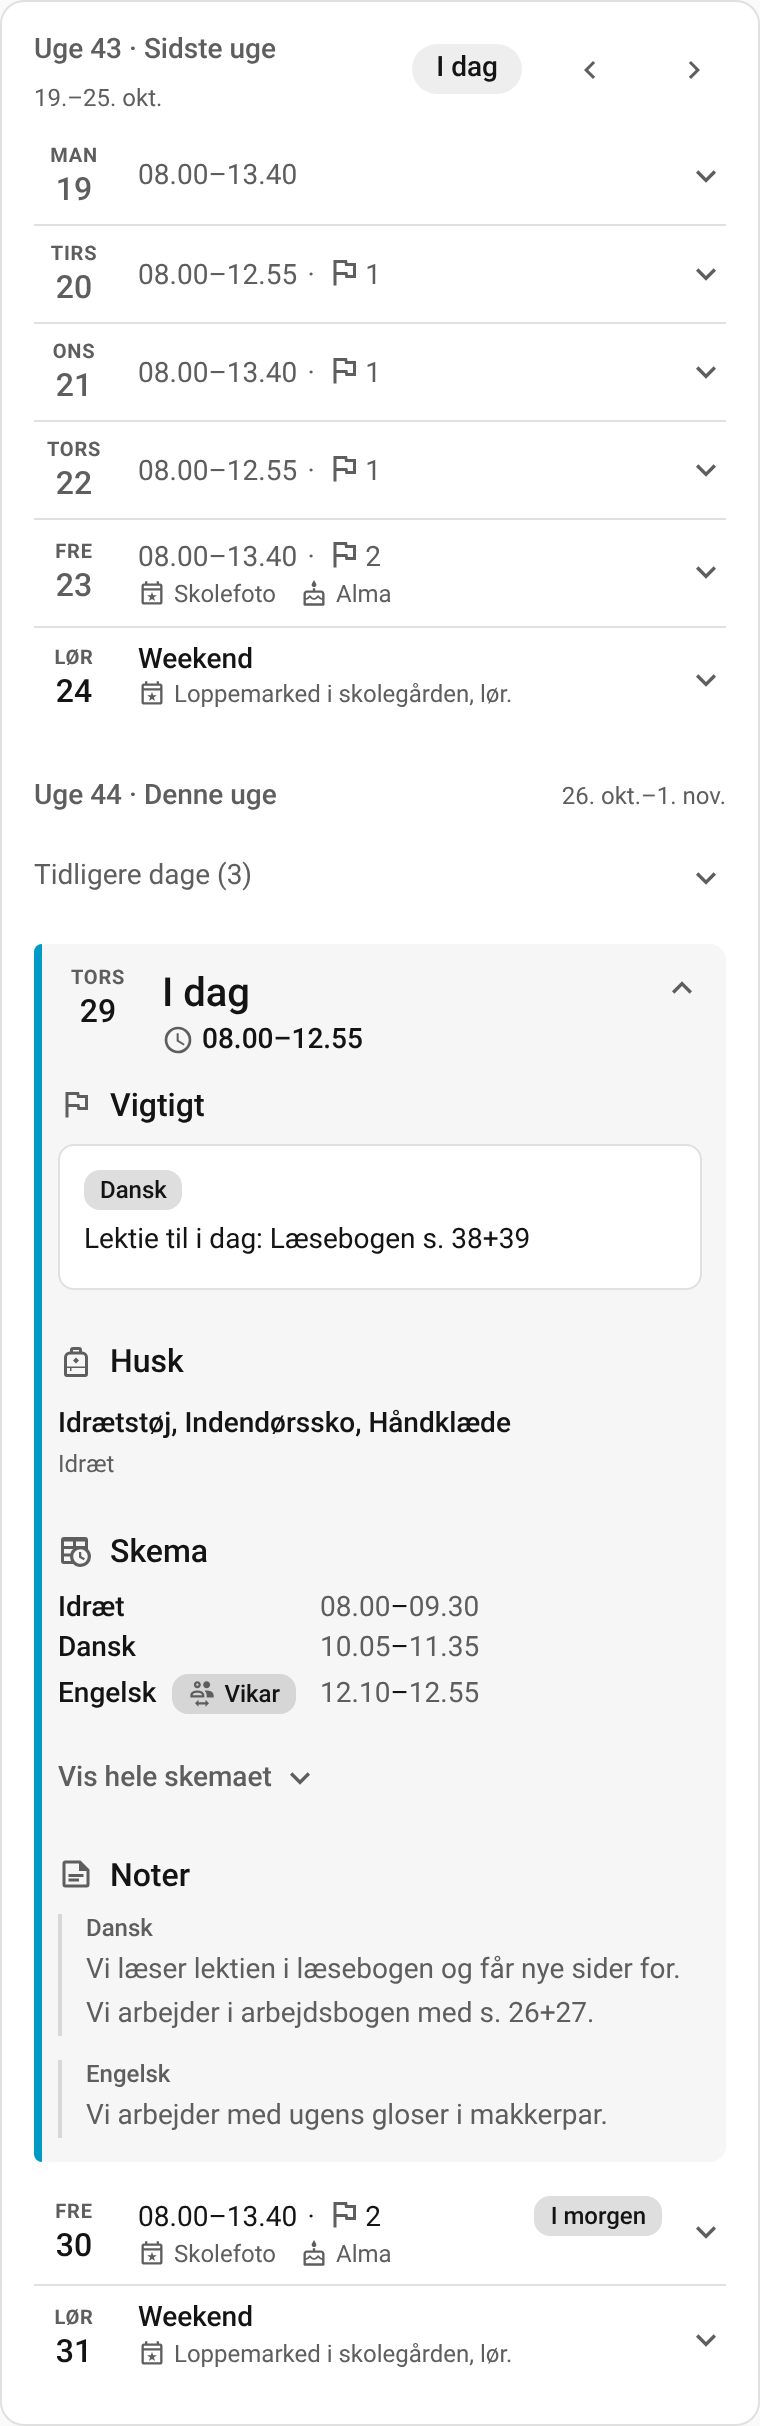
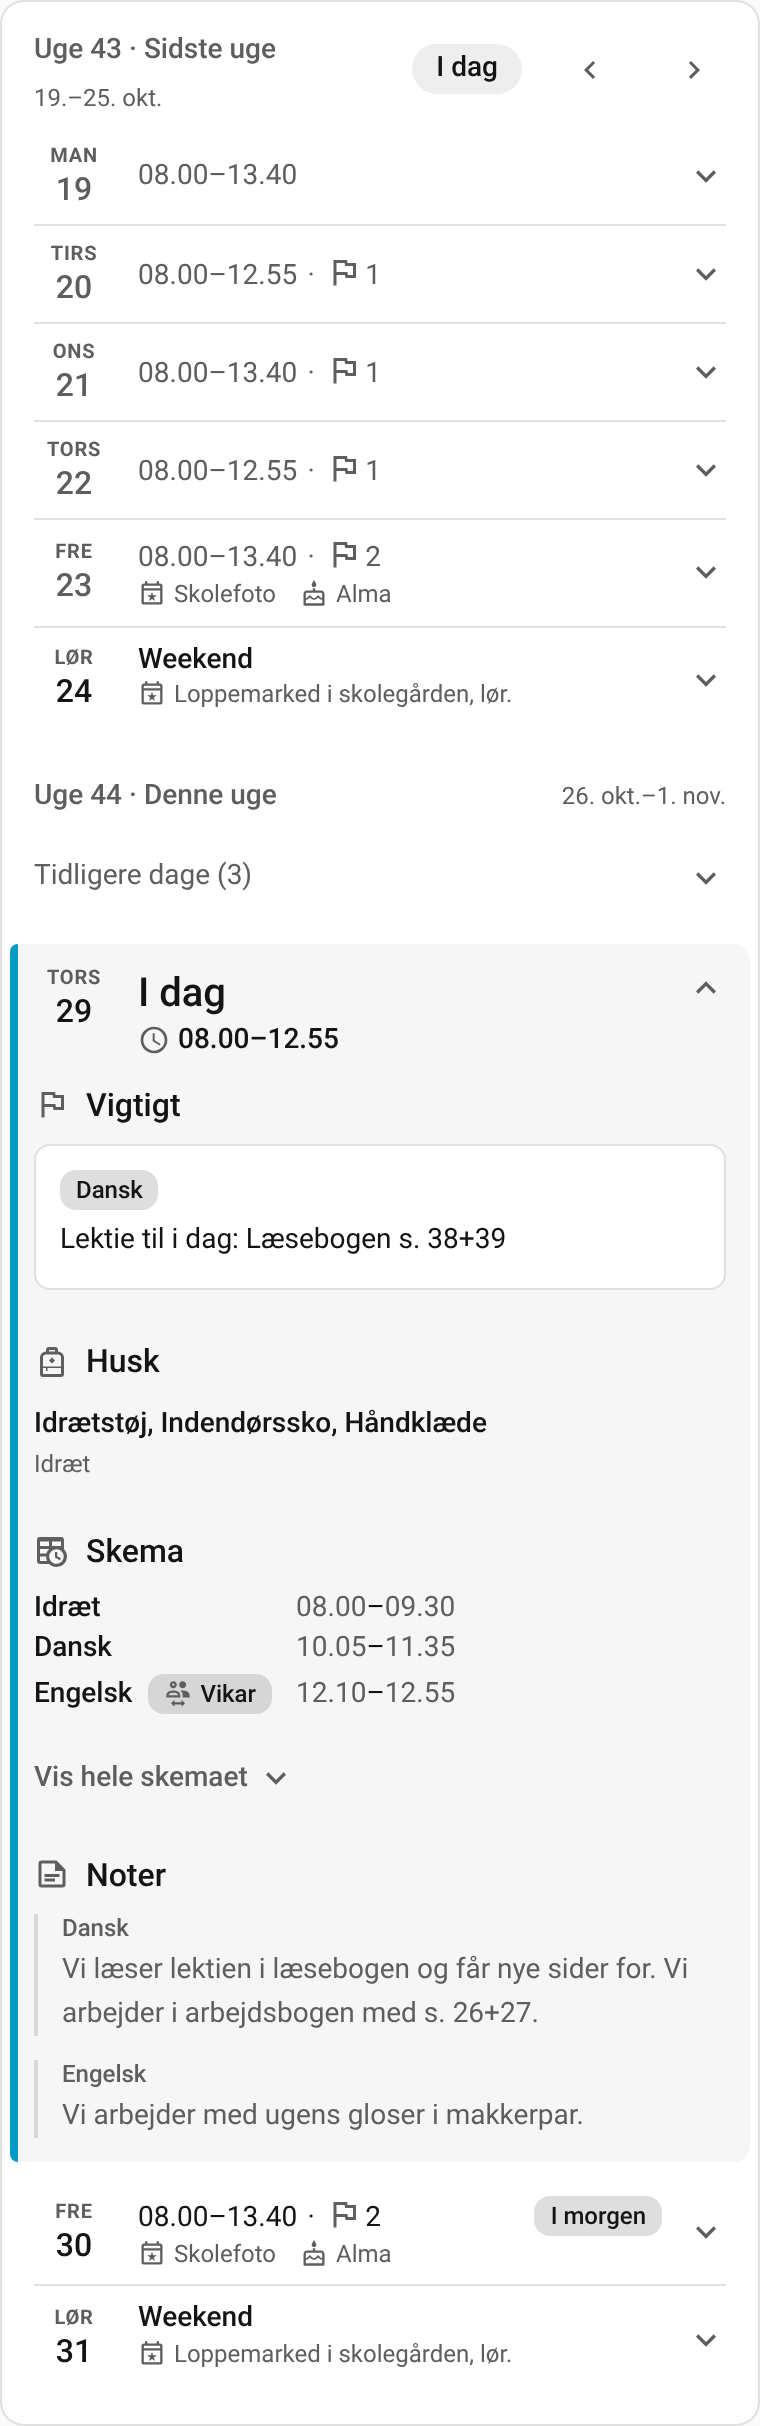
Keep the week card's dates in one column when a day is opened (#19)
Claude-Session: https://claude.ai/code/session_01SqQDNZBDdSDZgAEZdkAgqw

diff --git a/src/ui/styles.ts b/src/ui/styles.ts
@@ -1189,8 +1189,17 @@ export const weekStyles = css`
     padding: var(--aula-space-2) var(--aula-space-3);
     box-sizing: border-box;
   }
+  /* A row's fill, and an open day's frame, reach into the card's padding by as much. */
+  .week {
+    --aula-bleed: var(--aula-space-3);
+  }
+  @container aula (max-width: 359px) {
+    .week {
+      --aula-bleed: var(--aula-space-2);
+    }
+  }
   .day-row:not(.focus-day) > summary {
-    margin-inline: calc(-1 * var(--aula-space-3));
+    margin-inline: calc(-1 * var(--aula-bleed));
   }
   .daycol {
     flex: none;
@@ -1253,16 +1262,22 @@ export const weekStyles = css`
   .past .number {
     color: var(--aula-text-2);
   }
-  /* Today's bar is on the content's edge, the row closed or open. */
+  /* Today's bar is on the edge a row's fill and an open day's frame share, closed or open. */
   .today-row,
   .focus-day.today {
     position: relative;
+  }
+  .focus-day.today::before {
+    inset-inline-start: 0;
+  }
+  .today-row::before {
+    inset-inline-start: calc(-1 * var(--aula-bleed));
   }
   .today-row::before,
   .focus-day.today::before {
     content: "";
     position: absolute;
-    inset: 0 auto 0 0;
+    inset-block: 0;
     width: calc(4px * var(--aula-scale));
     border-radius: var(--aula-radius) 0 0 var(--aula-radius);
     background: var(--aula-accent);
@@ -1272,13 +1287,17 @@ export const weekStyles = css`
     align-items: center;
     gap: var(--aula-space-3);
     min-height: var(--aula-target);
-    padding: var(--aula-space-2) 0;
+    /* No fill to reach out, so its date steps in to the others'. */
+    padding: var(--aula-space-2) calc(var(--aula-space-3) - var(--aula-bleed));
   }
-  /* An open day is framed, the focus day and any other the user opens alike. */
+  /*
+   * An open day is framed, the focus day and any other the user opens alike. The frame reaches
+   * out as far as a closed row's fill, so that its date stays in the column of the others.
+   */
   .focus-day,
   .day-row[open] {
     container: day / inline-size;
-    margin: var(--aula-space-2) 0;
+    margin: var(--aula-space-2) calc(-1 * var(--aula-bleed));
     border-radius: var(--aula-radius);
     background: var(--aula-fill-faint);
   }

diff --git a/tests/ui/styles.test.ts b/tests/ui/styles.test.ts
@@ -72,6 +72,19 @@ describe("the wall screen", () => {
   });
 });
 
+describe("the week card's rows", () => {
+  it("keep a day's date in one column, closed or open, as the frame reaches out as far as a row's fill", () => {
+    const bleed = "calc(-1 * var(--aula-bleed))";
+    expect(declared(weekStyles, ".day-row:not(.focus-day) > summary")).toContain(
+      `margin-inline: ${bleed}`,
+    );
+    expect(declared(weekStyles, ".day-row[open]")).toContain(
+      `margin: var(--aula-space-2) ${bleed}`,
+    );
+    expect(declared(weekStyles, ".focus-day")).toContain(`margin: var(--aula-space-2) ${bleed}`);
+  });
+});
+
 describe("what is never cut", () => {
   it("clamps no quote of the week plan, only the plan's notes behind Vis mere", () => {
     const clamped = ALL.flatMap(rules)
@@ -159,8 +172,12 @@ describe("the week card's days", () => {
     expect(declared(weekStyles, ".day-row[open] > summary")).toContain("margin-inline: 0");
   });
 
-  it("puts today's bar on the content's edge, the row closed or open", () => {
-    expect(declared(weekStyles, ".today-row::before")).toContain("inset: 0 auto 0 0");
-    expect(declared(weekStyles, ".holiday-row")).toContain("padding: var(--aula-space-2) 0");
+  it("puts today's bar on the edge a row's fill and an open day's frame share, closed or open", () => {
+    expect(declared(weekStyles, ".today-row::before")).toContain(
+      "inset-inline-start: calc(-1 * var(--aula-bleed))",
+    );
+    expect(declared(weekStyles, ".holiday-row")).toContain(
+      "padding: var(--aula-space-2) calc(var(--aula-space-3) - var(--aula-bleed))",
+    );
   });
 });

diff --git a/scripts/screenshot.ts b/scripts/screenshot.ts
@@ -253,6 +253,7 @@ const SETS: Record<string, () => Shot[]> = {
     shot("week", "sat-1000-birthday", 380, { click: ".weekend-row > summary", tag: "open" }),
     shot("week", "sat-1000-birthday", 380, { locale: "en-US" }),
     shot("week", "thu-1930", 380, { click: ".day-row:not(.focus-day) > summary", tag: "open" }),
+    shot("week", "thu-1930", 340, { click: ".day-row:not(.focus-day) > summary", tag: "open" }),
     shot("day", "thu-1930", 380, {
       click: '[data-block="timetable"] .more',
       tag: "timetable-open",
@@ -545,6 +546,15 @@ function layout(tag: string): string[] {
     const names = [...strip.querySelectorAll(".kid-name, .who-name")];
     const tops = new Set(names.map((name) => Math.round(name.getBoundingClientRect().top)));
     if (tops.size > 1) problems.push(`the children's names stand at ${[...tops].join(", ")} px`);
+  }
+  // A week's dates stand in one column, whether their days are closed, open or the focus.
+  for (const weeks of root.querySelectorAll(".weeks")) {
+    const lefts = new Set(
+      [...weeks.querySelectorAll(".daycol")].map((day) =>
+        Math.round(day.getBoundingClientRect().left),
+      ),
+    );
+    if (lefts.size > 1) problems.push(`a week's dates stand at ${[...lefts].join(", ")} px`);
   }
   for (const time of root.querySelectorAll("time")) {
     // A box for each run of text, on one line unless the time is broken.
